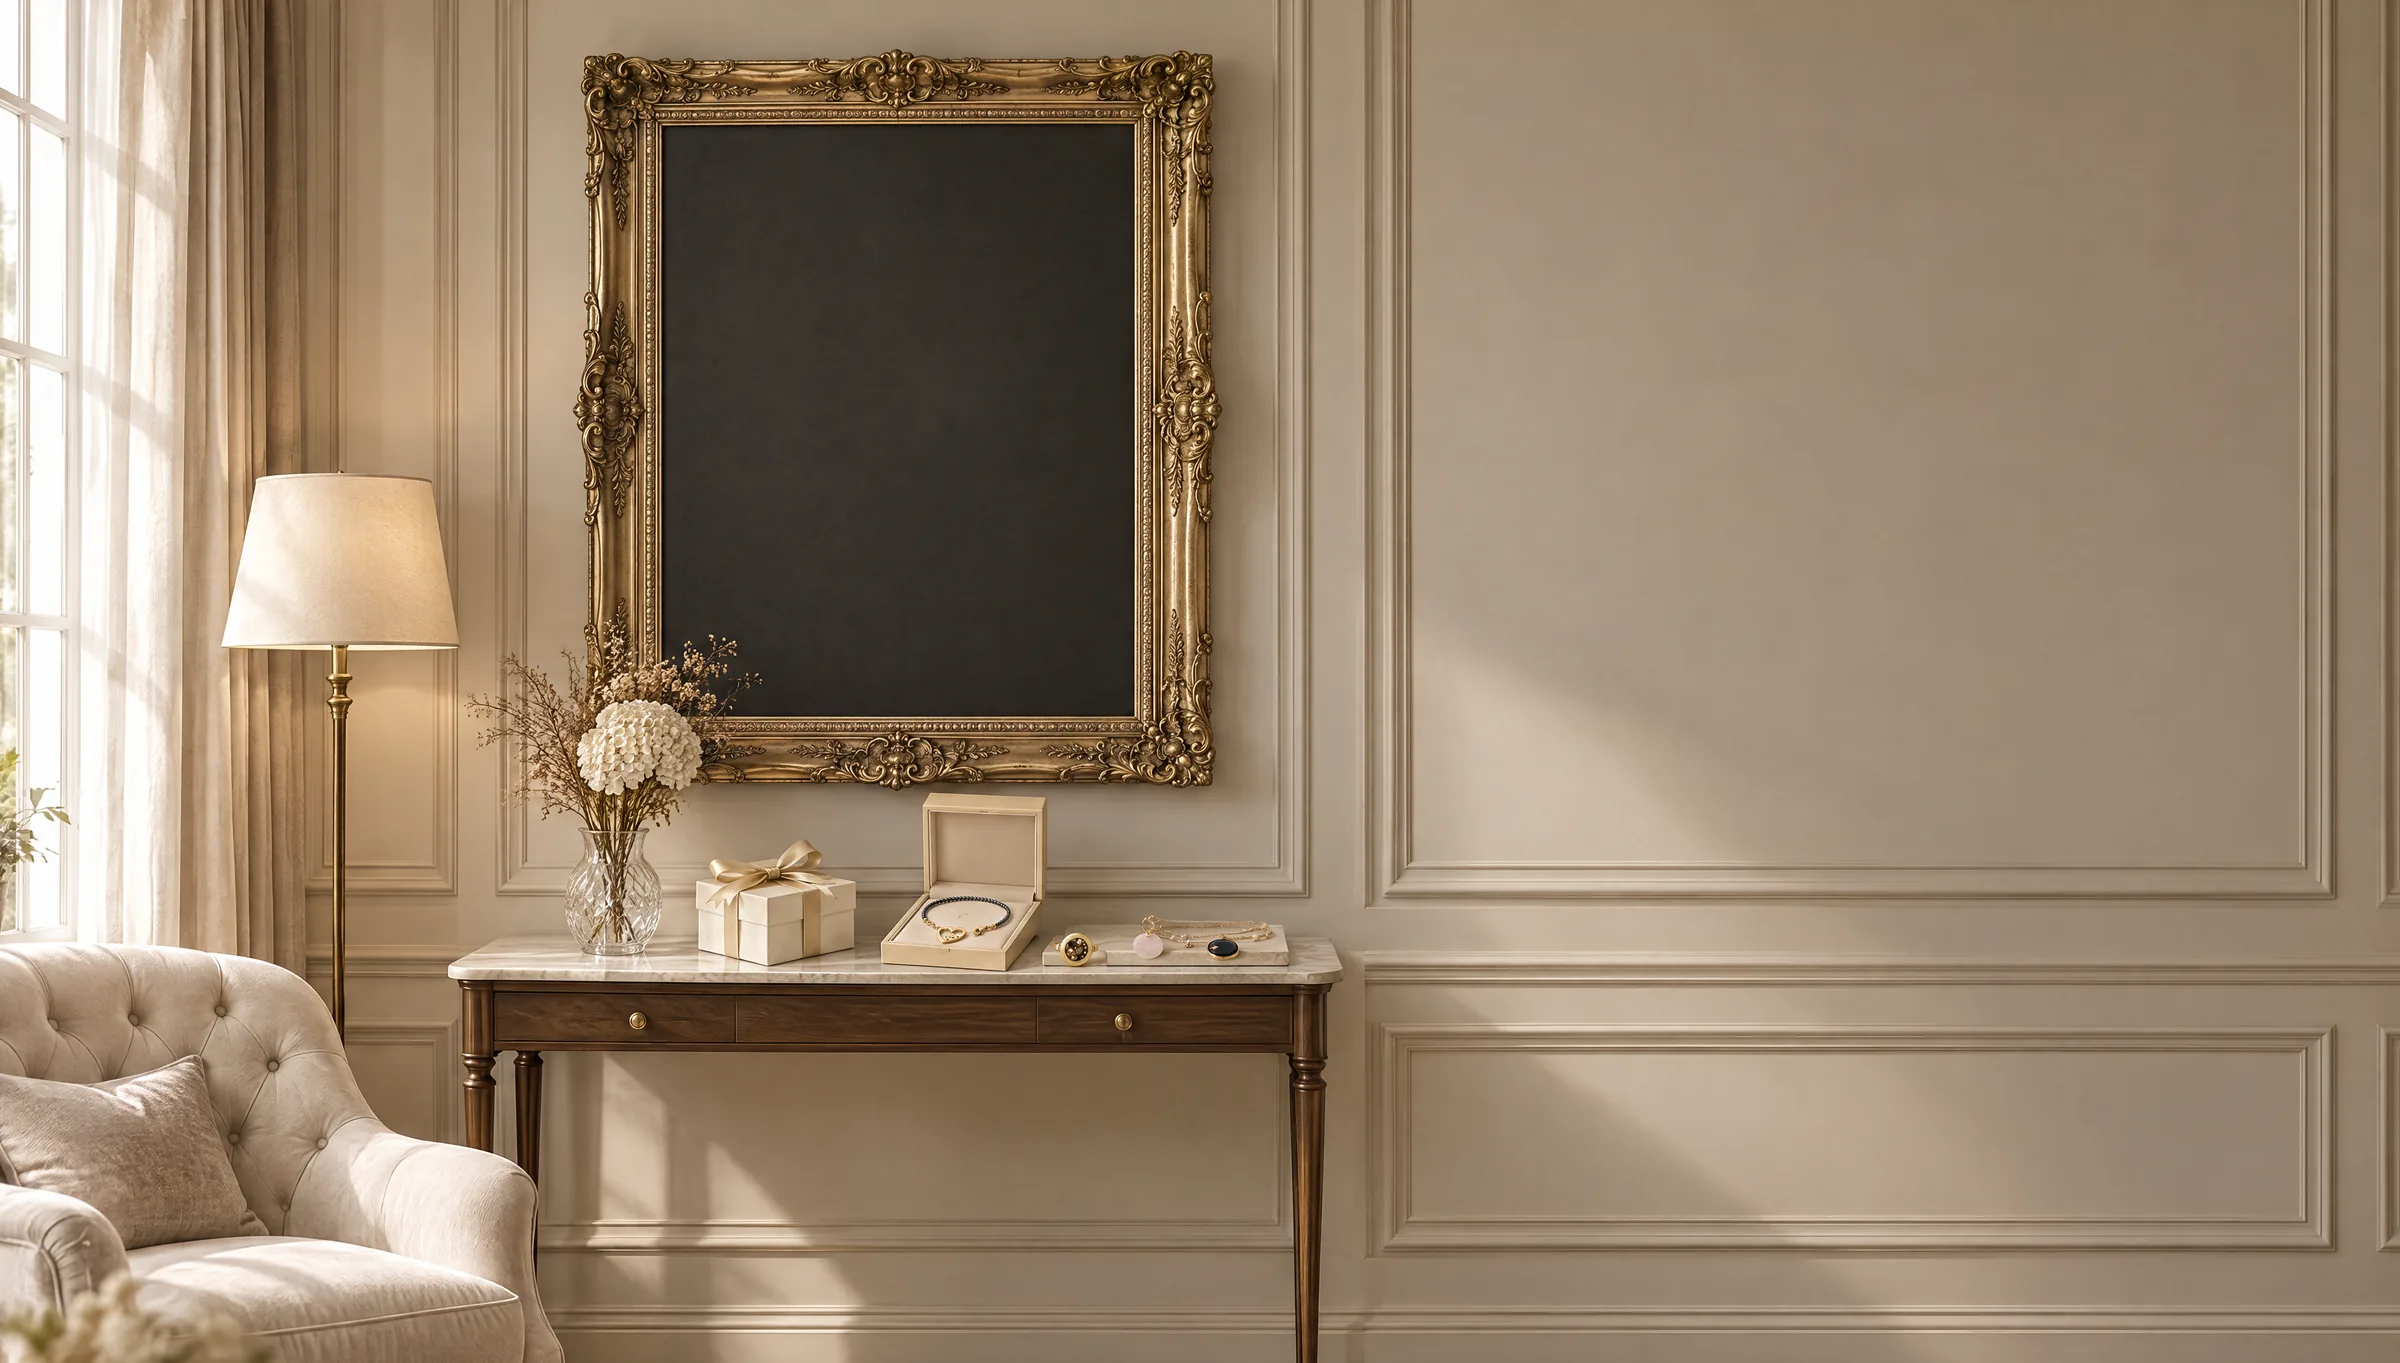
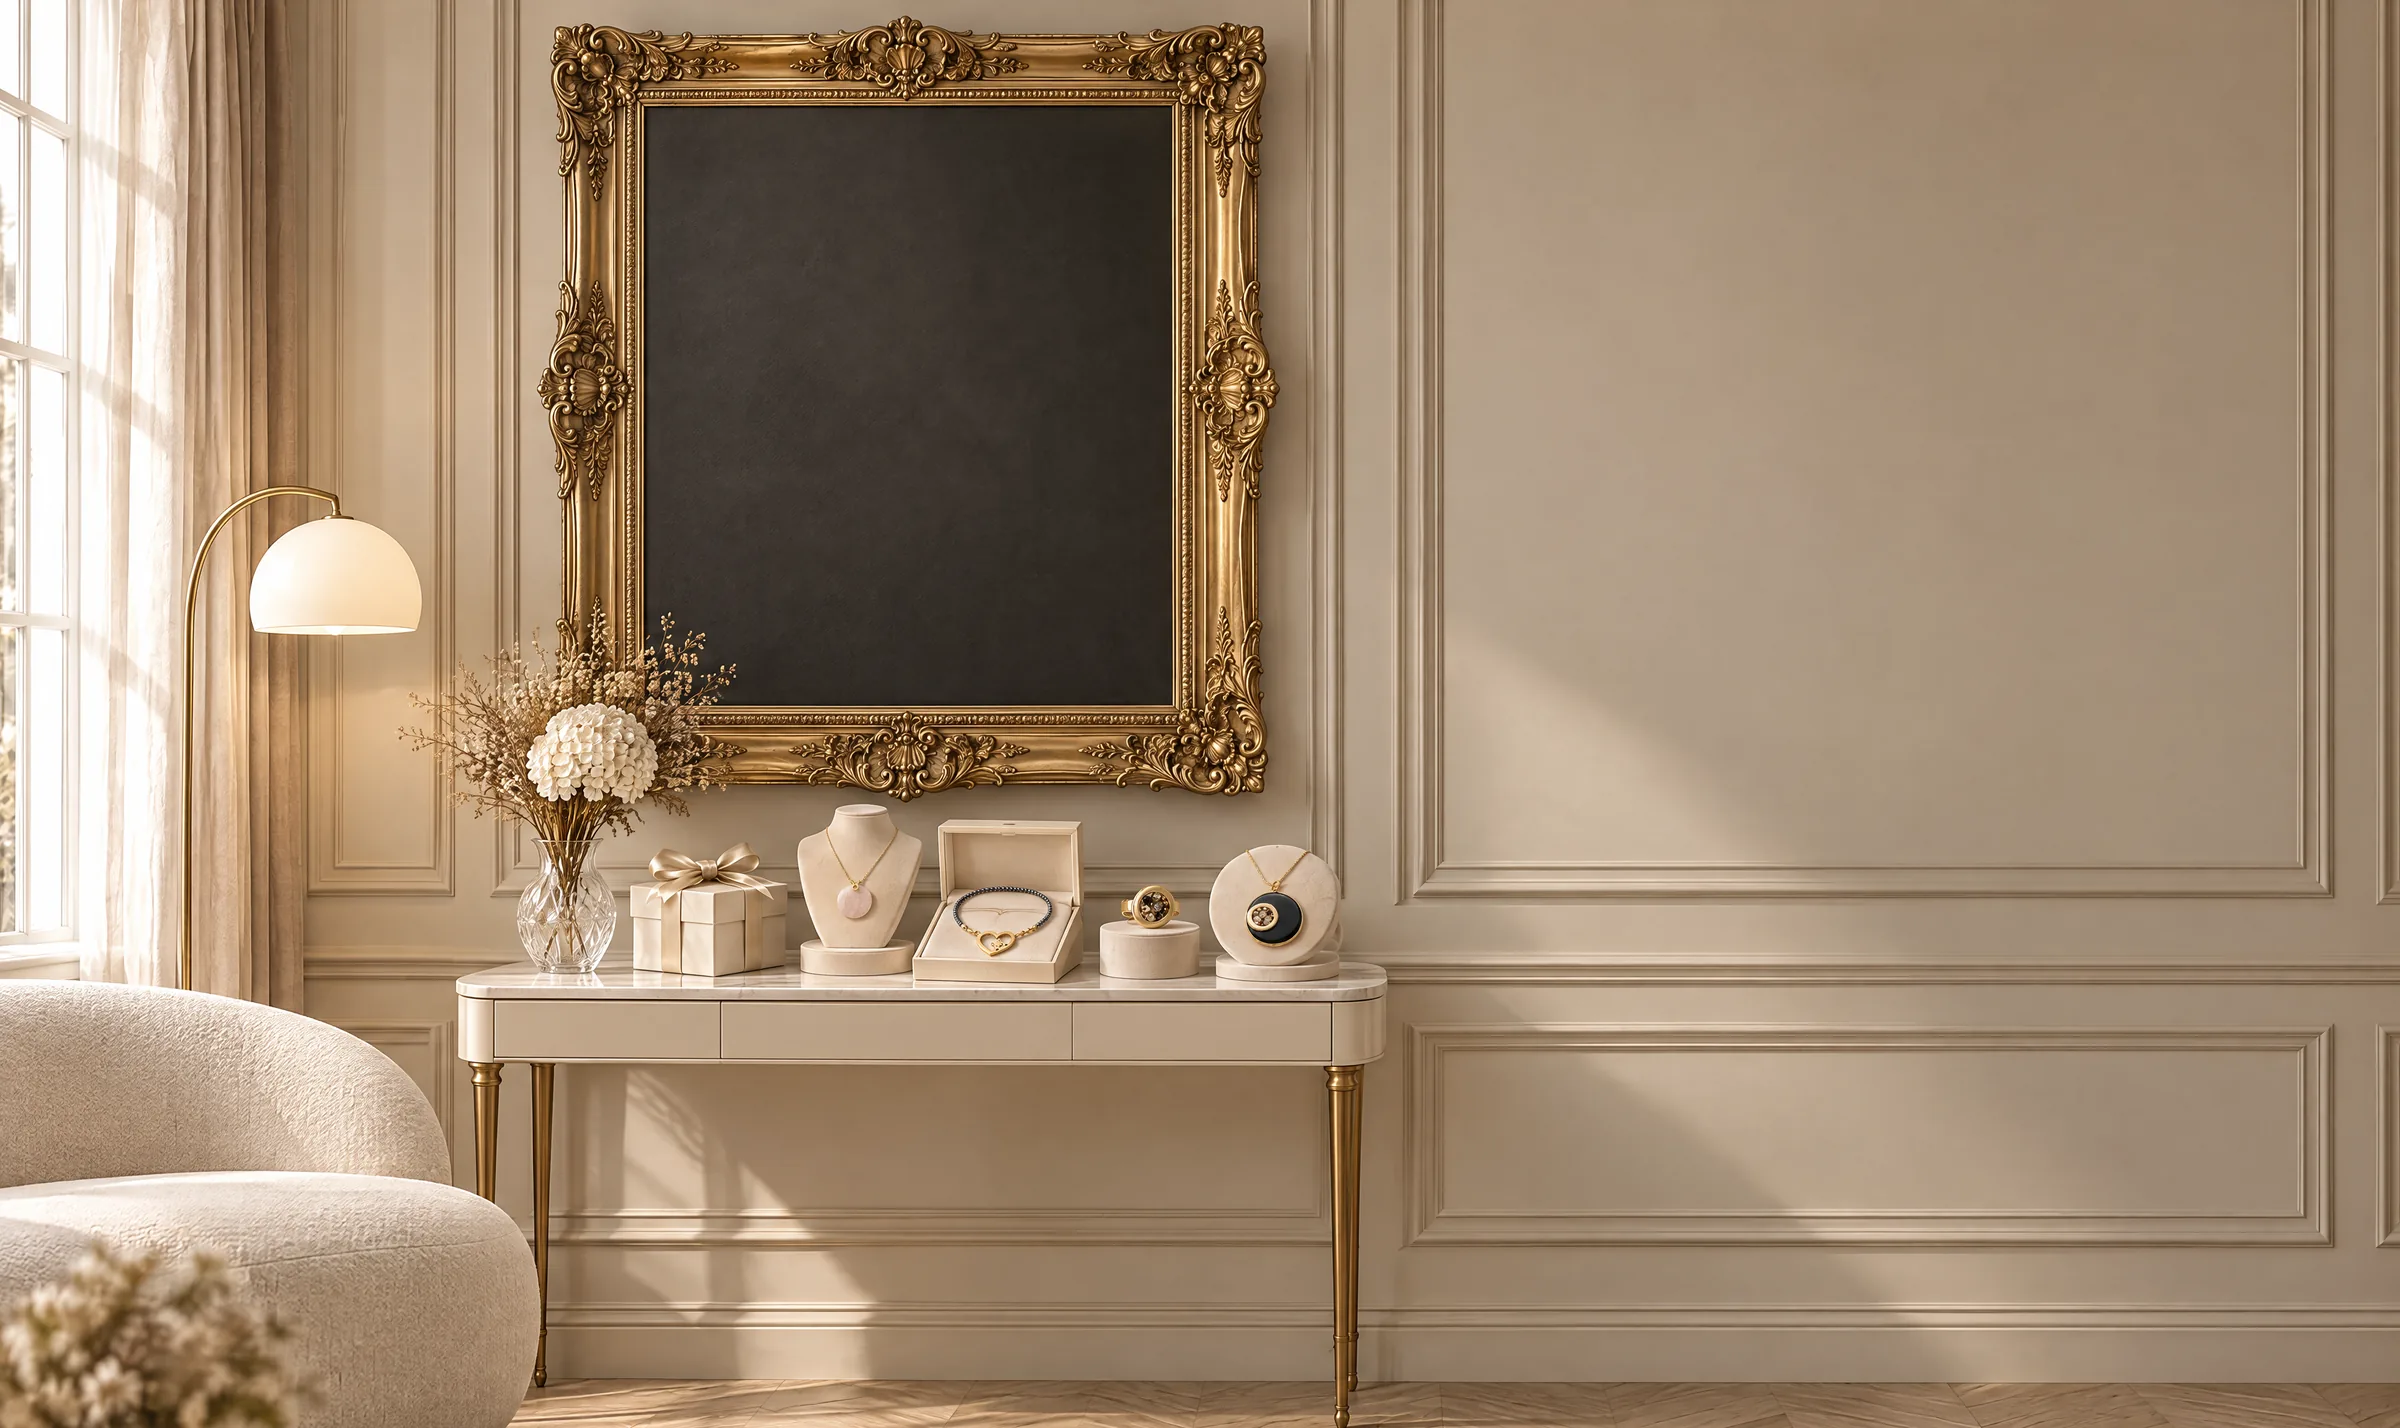
Desktop hero: nova butik slika (veći ram, moderna sofa i lampa, nakit na stalcima)
Claude-Session: https://claude.ai/code/session_01D4ZeZm119MDYsH3fkBFZBe

diff --git a/public/index.html b/public/index.html
@@ -220,12 +220,12 @@ header[data-hero]::before{display:none!important}
 }</style>
 <style id="gwCss8">@media (min-width:861px){
 .gw{background:#CDBBA2!important}
-.gw-s{height:818px!important}
-.gw-bg{position:absolute;left:0;top:0;width:1440px;height:818px;display:block;user-select:none;pointer-events:none}
-.gw-vid{position:absolute;left:397px;top:76px;width:285px;height:354px;overflow:hidden;z-index:3;box-shadow:inset 0 0 22px rgba(0,0,0,.45)}
+.gw-s{height:857px!important}
+.gw-bg{position:absolute;left:0;top:0;width:1440px;height:857px;display:block;user-select:none;pointer-events:none}
+.gw-vid{position:absolute;left:387px;top:63px;width:316px;height:361px;overflow:hidden;z-index:3;box-shadow:inset 0 0 22px rgba(0,0,0,.45)}
 .gw-vid video{width:100%;height:100%;object-fit:cover;object-position:50% 12%;display:block}
 .gw-vid::after{content:"";position:absolute;inset:0;box-shadow:inset 0 0 14px 2px rgba(40,25,10,.5);pointer-events:none}
-.gw-txt{left:760px!important;width:640px!important;top:215px!important}
+.gw-txt{left:800px!important;width:600px!important;top:230px!important}
 }</style>
 
 
@@ -241,7 +241,7 @@ header[data-hero]::before{display:none!important}
   
   <div data-frame="1" style="position:absolute;z-index:4;inset:clamp(12px,1.4vw,20px);top:calc(72px + clamp(12px,1.4vw,20px));border:1px solid rgba(197,160,89,.7);pointer-events:none"></div>
 
-  <svg width="0" height="0" style="position:absolute" aria-hidden="true"><defs><symbol id="pcorner" viewBox="0 0 120 120"><g fill="#F7F4EE" stroke="#D3CABB" stroke-width="1.1" stroke-linecap="round" stroke-linejoin="round"><path d="M5 5H78C94 5 101 17 95 28C89 37 75 36 73 27C72 20 79 18 83 21" fill="none" stroke="#F7F4EE" stroke-width="7"/><path d="M5 5V78C5 94 17 101 28 95C37 89 36 75 27 73C20 72 18 79 21 83" fill="none" stroke="#F7F4EE" stroke-width="7"/><path d="M16 16C48 18 64 40 58 70C42 62 22 48 16 16Z"/><path d="M16 16C18 48 40 64 70 58C62 42 48 22 16 16Z"/><path d="M24 24C42 28 54 42 55 60" fill="none" stroke="#DDD5C8" stroke-width="1.5"/><path d="M24 24C28 42 42 54 60 55" fill="none" stroke="#DDD5C8" stroke-width="1.5"/><path d="M30 20C50 22 62 36 62 50M20 30C22 50 36 62 50 62" fill="none" stroke="#E4DDD0" stroke-width="1.2"/><circle cx="22" cy="22" r="10"/><circle cx="22" cy="22" r="5" fill="#E8E1D5"/><circle cx="22" cy="22" r="1.8" fill="#F7F4EE"/><path d="M100 8C110 8 116 13 115 20C114 26 107 27 104 23" fill="none" stroke="#F7F4EE" stroke-width="5"/><path d="M8 100C8 110 13 116 20 115C26 114 27 107 23 104" fill="none" stroke="#F7F4EE" stroke-width="5"/><path d="M70 12C74 18 74 24 70 28M12 70C18 74 24 74 28 70" fill="none" stroke="#E4DDD0" stroke-width="1.4"/><circle cx="106" cy="30" r="2.4"/><circle cx="30" cy="106" r="2.4"/></g></symbol></defs></svg><div class="gw" aria-label="Nakit koji govori i kada Ti ćutiš"><div class="gw-s"><img class="gw-bg" src="/assets/site/hero-butik.webp?v=1" alt="" width="1440" height="818" fetchpriority="high"><div class="gw-vid"><video id="gwv" data-hv2="1" src="/assets/site/hero-v3.mp4" poster="/assets/site/hero-v3.jpg" autoplay muted loop playsinline preload="auto"></video></div><div class="gw-txt"><h1><span class="gt-l1">Nakit koji govori</span><span class="gt-pen">i kada Ti ćutiš</span></h1><div class="glassbtn" id="gb2"><canvas id="gc2" aria-hidden="true"></canvas><a class="cta" href="/nakit/"><span class="lbl">Pogledaj nakit</span></a></div></div></div></div><script>(function(){function f(){var h=document.querySelector('[data-hero]'),s=document.querySelector('.gw-s');if(!s||!h||!h.clientWidth)return;if(window.innerWidth<=860){h.style.removeProperty('height');return}var W=h.clientWidth,hh=Math.max(520,Math.min(window.innerHeight-72,818*W/1440)),k=Math.max(W/1440,hh/818);s.style.setProperty('--gs',k);s.style.top='0px';h.style.setProperty('height',(72+hh)+'px','important')}f();addEventListener('resize',f);function p(){f();if(window.innerWidth<=860)return;document.querySelectorAll('#gwv').forEach(function(v){v.muted=true;v.defaultMuted=true;v.setAttribute('muted','');v.setAttribute('playsinline','');if(v.paused){var r=v.play();if(r&&r.catch)r.catch(function(){})}})}p();setInterval(p,1000);['click','touchstart','scroll','mousemove','keydown'].forEach(function(e){addEventListener(e,p,{passive:true})});document.addEventListener('visibilitychange',p)})();</script><script>(function(){var gb,gc,gx,W=0,H=0,t=0,last=0,gp=null,ptr=null,ptrT=0,raf=0;
+  <svg width="0" height="0" style="position:absolute" aria-hidden="true"><defs><symbol id="pcorner" viewBox="0 0 120 120"><g fill="#F7F4EE" stroke="#D3CABB" stroke-width="1.1" stroke-linecap="round" stroke-linejoin="round"><path d="M5 5H78C94 5 101 17 95 28C89 37 75 36 73 27C72 20 79 18 83 21" fill="none" stroke="#F7F4EE" stroke-width="7"/><path d="M5 5V78C5 94 17 101 28 95C37 89 36 75 27 73C20 72 18 79 21 83" fill="none" stroke="#F7F4EE" stroke-width="7"/><path d="M16 16C48 18 64 40 58 70C42 62 22 48 16 16Z"/><path d="M16 16C18 48 40 64 70 58C62 42 48 22 16 16Z"/><path d="M24 24C42 28 54 42 55 60" fill="none" stroke="#DDD5C8" stroke-width="1.5"/><path d="M24 24C28 42 42 54 60 55" fill="none" stroke="#DDD5C8" stroke-width="1.5"/><path d="M30 20C50 22 62 36 62 50M20 30C22 50 36 62 50 62" fill="none" stroke="#E4DDD0" stroke-width="1.2"/><circle cx="22" cy="22" r="10"/><circle cx="22" cy="22" r="5" fill="#E8E1D5"/><circle cx="22" cy="22" r="1.8" fill="#F7F4EE"/><path d="M100 8C110 8 116 13 115 20C114 26 107 27 104 23" fill="none" stroke="#F7F4EE" stroke-width="5"/><path d="M8 100C8 110 13 116 20 115C26 114 27 107 23 104" fill="none" stroke="#F7F4EE" stroke-width="5"/><path d="M70 12C74 18 74 24 70 28M12 70C18 74 24 74 28 70" fill="none" stroke="#E4DDD0" stroke-width="1.4"/><circle cx="106" cy="30" r="2.4"/><circle cx="30" cy="106" r="2.4"/></g></symbol></defs></svg><div class="gw" aria-label="Nakit koji govori i kada Ti ćutiš"><div class="gw-s"><img class="gw-bg" src="/assets/site/hero-butik.webp?v=2" alt="" width="1440" height="857" fetchpriority="high"><div class="gw-vid"><video id="gwv" data-hv2="1" src="/assets/site/hero-v3.mp4" poster="/assets/site/hero-v3.jpg" autoplay muted loop playsinline preload="auto"></video></div><div class="gw-txt"><h1><span class="gt-l1">Nakit koji govori</span><span class="gt-pen">i kada Ti ćutiš</span></h1><div class="glassbtn" id="gb2"><canvas id="gc2" aria-hidden="true"></canvas><a class="cta" href="/nakit/"><span class="lbl">Pogledaj nakit</span></a></div></div></div></div><script>(function(){function f(){var h=document.querySelector('[data-hero]'),s=document.querySelector('.gw-s');if(!s||!h||!h.clientWidth)return;if(window.innerWidth<=860){h.style.removeProperty('height');return}var W=h.clientWidth,hh=Math.max(520,Math.min(window.innerHeight-72,857*W/1440)),k=Math.max(W/1440,hh/857);s.style.setProperty('--gs',k);s.style.top='0px';h.style.setProperty('height',(72+hh)+'px','important')}f();addEventListener('resize',f);function p(){f();if(window.innerWidth<=860)return;document.querySelectorAll('#gwv').forEach(function(v){v.muted=true;v.defaultMuted=true;v.setAttribute('muted','');v.setAttribute('playsinline','');if(v.paused){var r=v.play();if(r&&r.catch)r.catch(function(){})}})}p();setInterval(p,1000);['click','touchstart','scroll','mousemove','keydown'].forEach(function(e){addEventListener(e,p,{passive:true})});document.addEventListener('visibilitychange',p)})();</script><script>(function(){var gb,gc,gx,W=0,H=0,t=0,last=0,gp=null,ptr=null,ptrT=0,raf=0;
 function size(){var w=gb.offsetWidth,h=gb.offsetHeight,d=Math.min(2,devicePixelRatio||1);if(w===W&&h===H)return;W=w;H=h;gc.width=Math.round(w*d);gc.height=Math.round(h*d);gx.setTransform(d,0,0,d,0,0)}
 function tick(now){raf=requestAnimationFrame(tick);if(innerWidth<=860)return;gb=document.getElementById('gb2');gc=document.getElementById('gc2');if(!gb||!gc)return;if(!gx||gx.canvas!==gc){gx=gc.getContext('2d');W=H=0;gp=null;gb.addEventListener('pointermove',function(e){var r=gb.getBoundingClientRect();ptr={x:e.clientX-r.left,y:e.clientY-r.top};ptrT=performance.now()})}
 var dt=Math.min(50,now-last);last=now;size();
